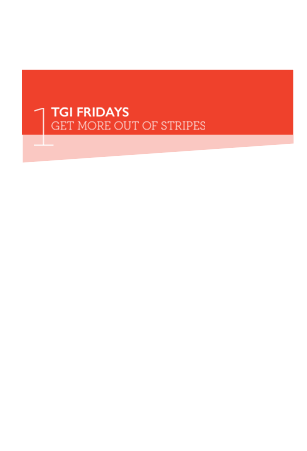
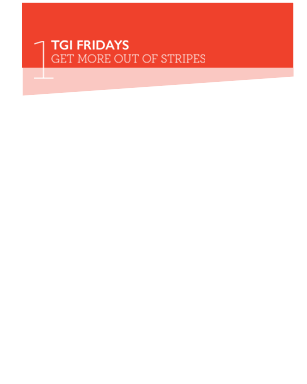
fixed stlye issues and bugs

Changed region(s): [[0.0586, 0.0, 0.9674, 0.375]]

diff --git a/styles/index.css b/styles/index.css
@@ -87,6 +87,9 @@ section p {
 }
 
 h2 {
+	font-family: ;
+	font-size: 25px;
+	letter-spacing: -0.5px;
 	padding: 0 5px;
 }
 
@@ -124,94 +127,27 @@ section button {
 	color: #dc3d28;
 }
 
-/*footer styles*/
-
-footer {
-	background-color: #32323a;
-	padding: 10px;
-	text-align: center;
-	color: #78797d;
-	font-family: "BioRhyme", serif;
-	font-style: oblique;
-}
-
-footer p {
-	font-weight: bold;
-}
-
-footer img {
-	height: 35px;
-}
-
 /*styles for case studies*/
 
+
 .case-sub-head {
-	padding-bottom: 100px;
+	padding-bottom: 10px;
 	text-align: center;
 }
 
-.tgif-img {
-	background-image: url(../images/tgif-img1.PNG);
-	background-repeat: no-repeat;
-	height: 307px;
-	width: 300px;
-	margin: auto;
-}
-
-.tgif-img img {
-	position: relative;
-	left: 20px;
-	top: -90px;
-}
-
-.lego-img {
-	background-image: url(../images/legos-img1.png);
-	background-repeat: no-repeat;
-	height: 290px;
-	width: 250px;
-	margin: auto;
-}
-
-lego-img img {
-	position: relative;
-
-	padding-right: 30px;
-}
-
-.seaworld-img {
-	background-image: url(../images/sea-world-img1.png);
-	background-repeat: no-repeat;
-	height: 275px;
-	width: 277px;
-	margin: auto;
-}
-
-.seaworld-img img {
-	position: relative;
-	left: 20px;
-	top: -30px;	
-}
-
-.case-img {
-	display: inline-block;
-}
-
-.case-sub-head {
-	float: left;
-}
-
-.case-sub-head h2{
+.case-sub-head h2{ 
 	padding-bottom: 20px;
 }
 
-h2 {
-	font-family: "BioRhyme", serif;
+.overlay {
+	position: absolute;
+	z-index: 2;
 }
 
 h2 span {
-	font-size: 45px;
-	font-weight: bold;
+	font-size: 35px;
 }
+
 /*styles for animated menu button*/
 
  .navbar-toggle {
@@ -304,9 +240,28 @@ ol, ul {
 	margin-top: 20px;
 }
 
+/*footer styles*/
+
+footer {
+	background-color: #32323a;
+	padding: 10px;
+	text-align: center;
+	color: #78797d;
+	font-family: "BioRhyme", serif;
+	font-style: oblique;
+}
+
+footer p {
+	font-weight: bold;
+}
+
+footer img {
+	height: 35px;
+}
+
 /*media queries (min-width 768px)*/
 @media (min-width: 768px) {
-	
+/*	nav styles*/
 	.navbar {
 		margin: auto;
 		height: 0px;
@@ -326,6 +281,51 @@ ol, ul {
 		border-bottom: none;
 		margin: 0;
 	}
+	
+/*	main styles*/
+	
+	.case-sub-head {
+		float: left;
+		margin-left: 140px;
+		margin-bottom: 100px;
+ }
+	
+	h2 {
+		font-family: "BioRhyme", serif;
+		font-size: 23px;
+	}
+	
+	h2 span {
+		font-size: 33px;
+		font-weight: bold;
+  }
+/*	image styles*/
+	
+	.layered-img {
+		float: right;
+	}
+	
+	.tgif-img {
+		position: relative; 
+		right: 140px;
+		z-index: 1;
+	}
+	
+	.lego-img {
+		position: relative;
+		right: 130px;
+		z-index: 0;
+	}
+	.sea-img {
+		position: relative;
+		left: 450px;
+		z-index: 2;
+	}
+	
+	.case-container {
+		margin: auto;
+	}
+	
 }
 
 ::-webkit-scrollbar {

diff --git a/index.html b/index.html
@@ -109,22 +109,27 @@
 		</div>
 				
 			</section>
-			<section id="case-studies" class="row">
-				<div class="case-sub-head">
-					<h2>FEATURED LEARNINGS<br /><span>&amp; CASE STUDIES</span></h2>
-					<button class="case-btn" type="button">SEE ALL CASE STUDIES</button>
-				</div>
-				<div class="case-content">
-					<div class="case-img wow fadeInUp tgif-img">
-						<img class="wow fadeInDown" src="images/tgif2.png">
+			<section id="case-studies" class="case-content row">
+				<div class="case-container">
+					<div class="case-sub-head">
+						<h2>FEATURED LEARNINGS<br /><span>&amp; CASE STUDIES</span></h2>
+						<button class="case-btn" type="button">SEE ALL CASE STUDIES</button>
 					</div>
-					<div class="case-img wow fadeInUp lego-img">
-						<img class"wow fadeInDown" src="images/legos2.png">
+				  <div class="case-imgs">
+					<div class="tgif-img layered-img wow fadeInUp">
+						<img class="overlay wow fadeInDown" src="images/tgif2.png">
+						<img class="layer-two wow fadeInUp" src="images/tgif-img1.png">
 					</div>
-					<div class="case-img wow fadeInUp seaworld-img">
-						<img class="wow fadeInDown" src="images/sea-world2.png">
+					<div class="lego-img layered-img">
+						<img class="overlay wow fadeInDown" src="images/legos2.png">
+						<img class="wow fadeInUp" src="images/legos-img1.png">
 					</div>
-				</div>
+					<div class="sea-img layered-img">
+						<img class="overlay wow fadeInDown" src="images/sea-world2.png">
+						<img class="wow fadeInUp" src="images/sea-world-img1.png">
+					</div>
+				  </div>
+			  </div>
 			</section>
 		</div>	
 		<footer>
